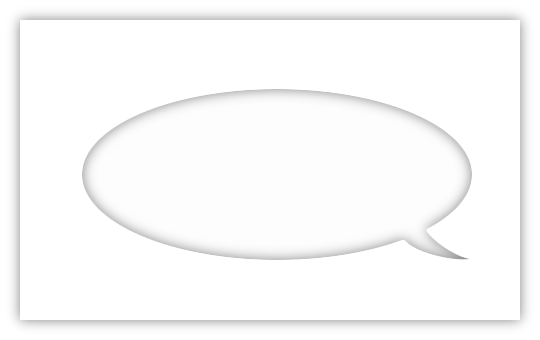
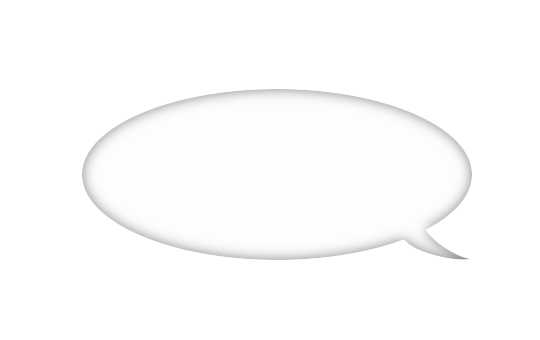
fixed bubble image; added bubble request in character settings

Changed region(s): [[0.0296, 0.0294, 0.9778, 0.9706]]

diff --git a/src/Character.cpp b/src/Character.cpp
@@ -41,6 +41,14 @@ namespace MCA{
 			this->move.setFileName(char_dir + '/' + properties.value("Images/move", "").toString());
 			if(!this->move.isValid())
 				error_list << "Couldn't load move image!";
+			if(!this->m_bubble.pixmap.load(char_dir + '/' + properties.value("Images/bubble", "").toString()))
+				error_list << "Couldn't load bubble image!";
+			this->m_bubble.x = properties.value("Geometries/bubble_x", this->m_bubble.x).toDouble(),
+			this->m_bubble.y = properties.value("Geometries/bubble_y", this->m_bubble.y).toDouble(),
+			this->m_bubble.edit_x = properties.value("Geometries/bubble_edit_x", this->m_bubble.edit_x).toDouble(),
+			this->m_bubble.edit_y = properties.value("Geometries/bubble_edit_y", this->m_bubble.edit_y).toDouble(),
+			this->m_bubble.edit_width = properties.value("Geometries/bubble_edit_width", this->m_bubble.edit_width).toDouble(),
+			this->m_bubble.edit_height = properties.value("Geometries/bubble_edit_height", this->m_bubble.edit_height).toDouble();
 		}
 		return (this->error = error_list.join(' ')).isEmpty();
 	}
@@ -63,6 +71,10 @@ namespace MCA{
 			case Character::State::MOVE: return this->move;
 		}
 		return this->null;
+	}
+
+	Character::Bubble& Character::bubble(void){
+		return this->m_bubble;
 	}
 
 	QString Character::errorString(void) const{

diff --git a/src/Character.hpp b/src/Character.hpp
@@ -17,15 +17,23 @@ Permission is granted to anyone to use this software for any purpose, including 
 
 #include <QtCore/QStringList>
 #include <QtGui/QMovie>
+#include <QtGui/QPixmap>
 
 namespace MCA{
 	class Character{
 		public:
 			static QStringList possibleNames(void);
+			struct Bubble{
+				double x = 0, y = 0;
+				QPixmap pixmap;
+				double edit_x = 0, edit_y = 0;
+				unsigned edit_width = 100, edit_height = 12;
+			};
 			enum class State{IDLE, MOVE};
 		private:
 			QString id, error;
 			QMovie idle, move, null;
+			Bubble m_bubble;
 			State m_state = State::IDLE;
 		public:
 			Character(void) = default;
@@ -35,6 +43,7 @@ namespace MCA{
 			State state(void) const;
 			void state(State current);
 			QMovie& currentImage(void);
+			Bubble& bubble(void);
 			QString errorString(void) const;
 	};
 }
